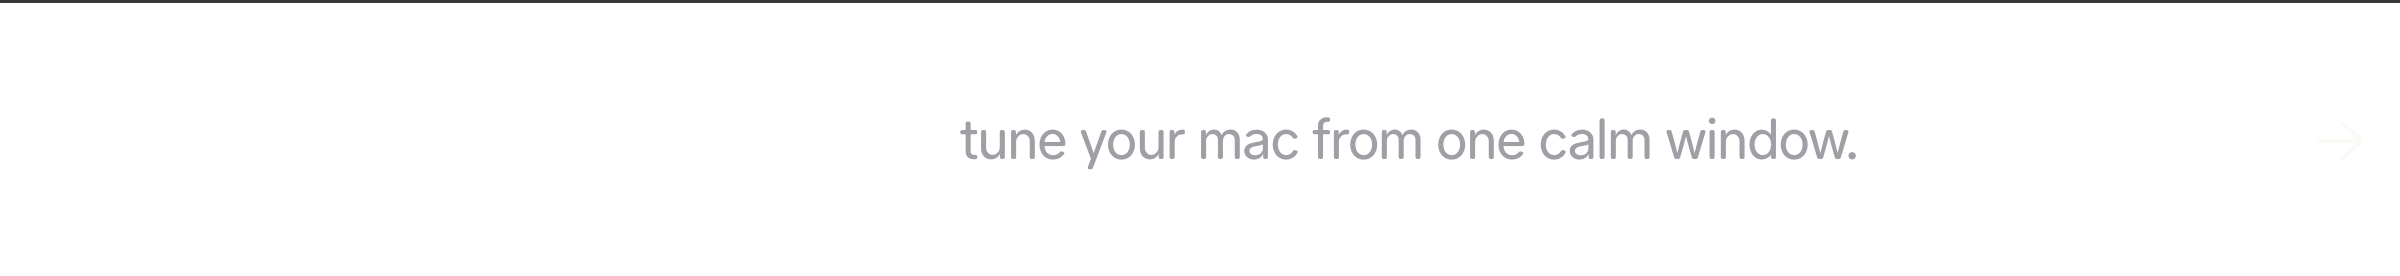
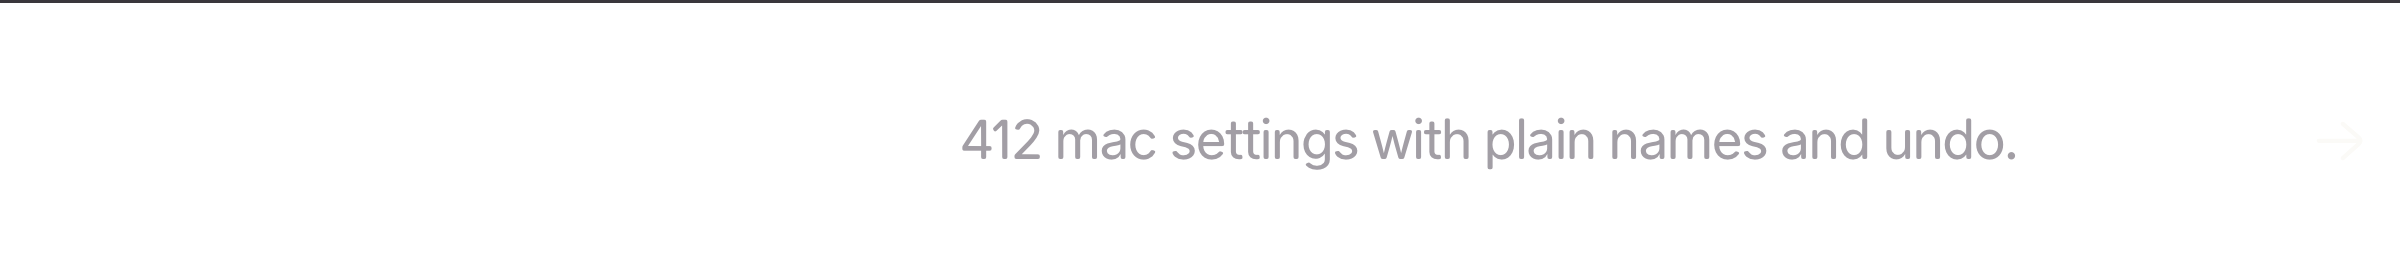
fix(readme): plain description for MacKit

Changed region(s): [[0.375, 0.4348, 0.8438, 0.6087]]

diff --git a/README.md b/README.md
@@ -2,7 +2,7 @@
 
 <picture><source media="(prefers-color-scheme: dark)" srcset="./assets/head-work-dark.png"><img src="./assets/head-work-light.png" alt="things i've made" width="100%"></picture>
 
-<p><a href="https://trymollyai.com"><picture><source media="(prefers-color-scheme: dark)" srcset="./assets/row-molly-dark.png"><img src="./assets/row-molly-light.png" alt="Molly: your coding agents, together." width="100%"></picture></a><a href="https://getyallo.vercel.app"><picture><source media="(prefers-color-scheme: dark)" srcset="./assets/row-yallo-dark.png"><img src="./assets/row-yallo-light.png" alt="Yallo: icons drawn as pen strokes." width="100%"></picture></a><a href="https://github.com/ChloeVPin/MacKit"><picture><source media="(prefers-color-scheme: dark)" srcset="./assets/row-mackit-dark.png"><img src="./assets/row-mackit-light.png" alt="MacKit: tune your mac from one calm window." width="100%"></picture></a><a href="https://github.com/ChloeVPin/Open-Source-Design"><picture><source media="(prefers-color-scheme: dark)" srcset="./assets/row-open-source-design-dark.png"><img src="./assets/row-open-source-design-light.png" alt="Open Source Design: remakes of interface designs i like." width="100%"></picture></a></p>
+<p><a href="https://trymollyai.com"><picture><source media="(prefers-color-scheme: dark)" srcset="./assets/row-molly-dark.png"><img src="./assets/row-molly-light.png" alt="Molly: your coding agents, together." width="100%"></picture></a><a href="https://getyallo.vercel.app"><picture><source media="(prefers-color-scheme: dark)" srcset="./assets/row-yallo-dark.png"><img src="./assets/row-yallo-light.png" alt="Yallo: icons drawn as pen strokes." width="100%"></picture></a><a href="https://github.com/ChloeVPin/MacKit"><picture><source media="(prefers-color-scheme: dark)" srcset="./assets/row-mackit-dark.png"><img src="./assets/row-mackit-light.png" alt="MacKit: 412 mac settings with plain names and undo." width="100%"></picture></a><a href="https://github.com/ChloeVPin/Open-Source-Design"><picture><source media="(prefers-color-scheme: dark)" srcset="./assets/row-open-source-design-dark.png"><img src="./assets/row-open-source-design-light.png" alt="Open Source Design: remakes of interface designs i like." width="100%"></picture></a></p>
 
 <picture><source media="(prefers-color-scheme: dark)" srcset="./assets/head-hi-dark.png"><img src="./assets/head-hi-light.png" alt="say hi" width="100%"></picture>
 
